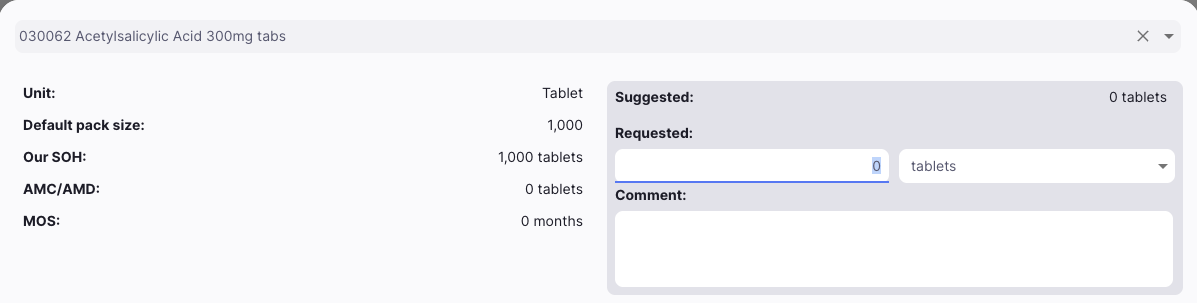
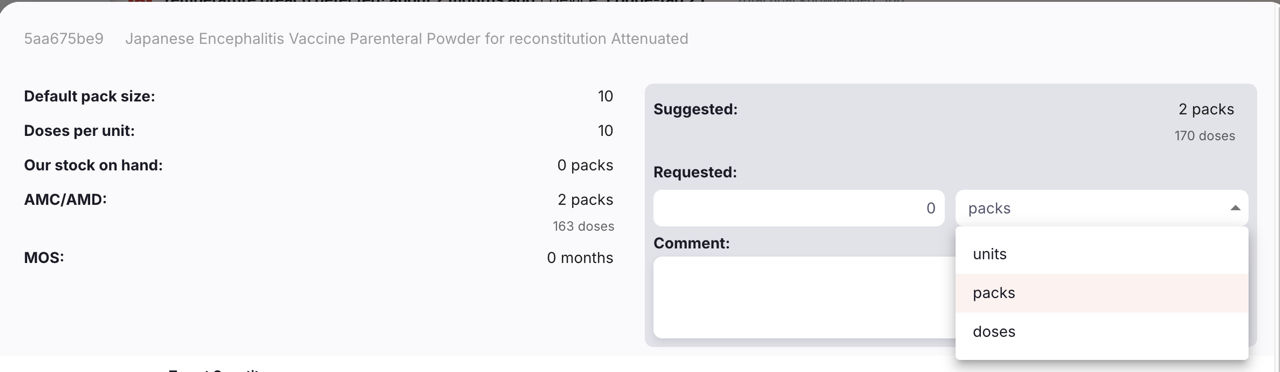
ordering in doses

diff --git a/content/docs/replenishment/internal orders/index.md b/content/docs/replenishment/internal orders/index.md
@@ -109,7 +109,7 @@ Once an item is selected, you should see the following information on the page.
 
 - **Suggested**: the number of units which mSupply suggests that your order to reach your stock target quantity
 - **Requested**: the number of units that you request from your supplier
-- **Packs or units**: a drop down selector which allows you to choose between a pack/unit
+- **Pack/unit/dose selector**: a drop down to choose between ordering in units, packs, or doses, depending on your store preferences. See [Requesting a quantity](#requesting-a-quantity) for details.
 - **Comment**: any comments you want to add to the order
 
 Additionally, if you have are viewing a program order, and have the store preference `Use consumption & stock from customers for internal orders` enabled in your store then you will see some additional fields:
@@ -160,9 +160,11 @@ enabled, you will see the population based forecasting calculation instead.
 
 ![Population based forecasting](images/population_based_forecasting_display.png)
 
-### Requesting a quantity in packs
+### Requesting a quantity
 
-If the item which you have selected has a default pack size configured (see the mSupply documentation on [editing units](https://docs.msupply.org.nz/items:adding_a_new_item#general_tab) for details on how to do this) then you will see a few additional elements on the 'Add item' window:
+The drop down next to the **Requested** field allows you to switch between entering quantities in **units**, **packs**, or **doses**. When you change the selection, the displayed values for stock on hand, AMC and suggested quantity displayed in packs, units, or doses to match the selector.
+
+The available options depend on your store preferences. The `packs` option is available when the store preference `Order in packs` is enabled. For vaccine items, the `doses` option is available when the store preference `Manage vaccines in doses` is enabled. If both preferences are enabled, the `packs` option is selected by default.
 
 ### Adding items using a master list
 
@@ -205,7 +207,7 @@ When you add items (using a master list or not), the item is added to the order'
 | **AMC**                  | Average Monthly Consumption: how much stock your store uses each month on average (based on a configurable number of months, defaults to 3 months)                                                             |
 | **Target Stock (AMC)**   | This is the stock you are aiming for. Calculated as: AMC x Target MOS                                                                                                                                          |
 | **Suggested Quantity**   | How much stock mSupply suggests that your order. This is calculated as: (AMC x Target MOS) - SoH                                                                                                               |
-| **Requested**            | This is set to zero by default. This is the quantity of units you are ordering from your supplier.                                                                                                             |
+| **Requested**            | This is set to zero by default. This is the quantity you are ordering from your supplier, displayed in the selected units, packs, or doses.                                                                    |
 
 <div class="note">If you are using population based forecasting then you will see an additional column of **Target Stock (population)** which shows the target which is calculated using the population served by this store.</div>
 